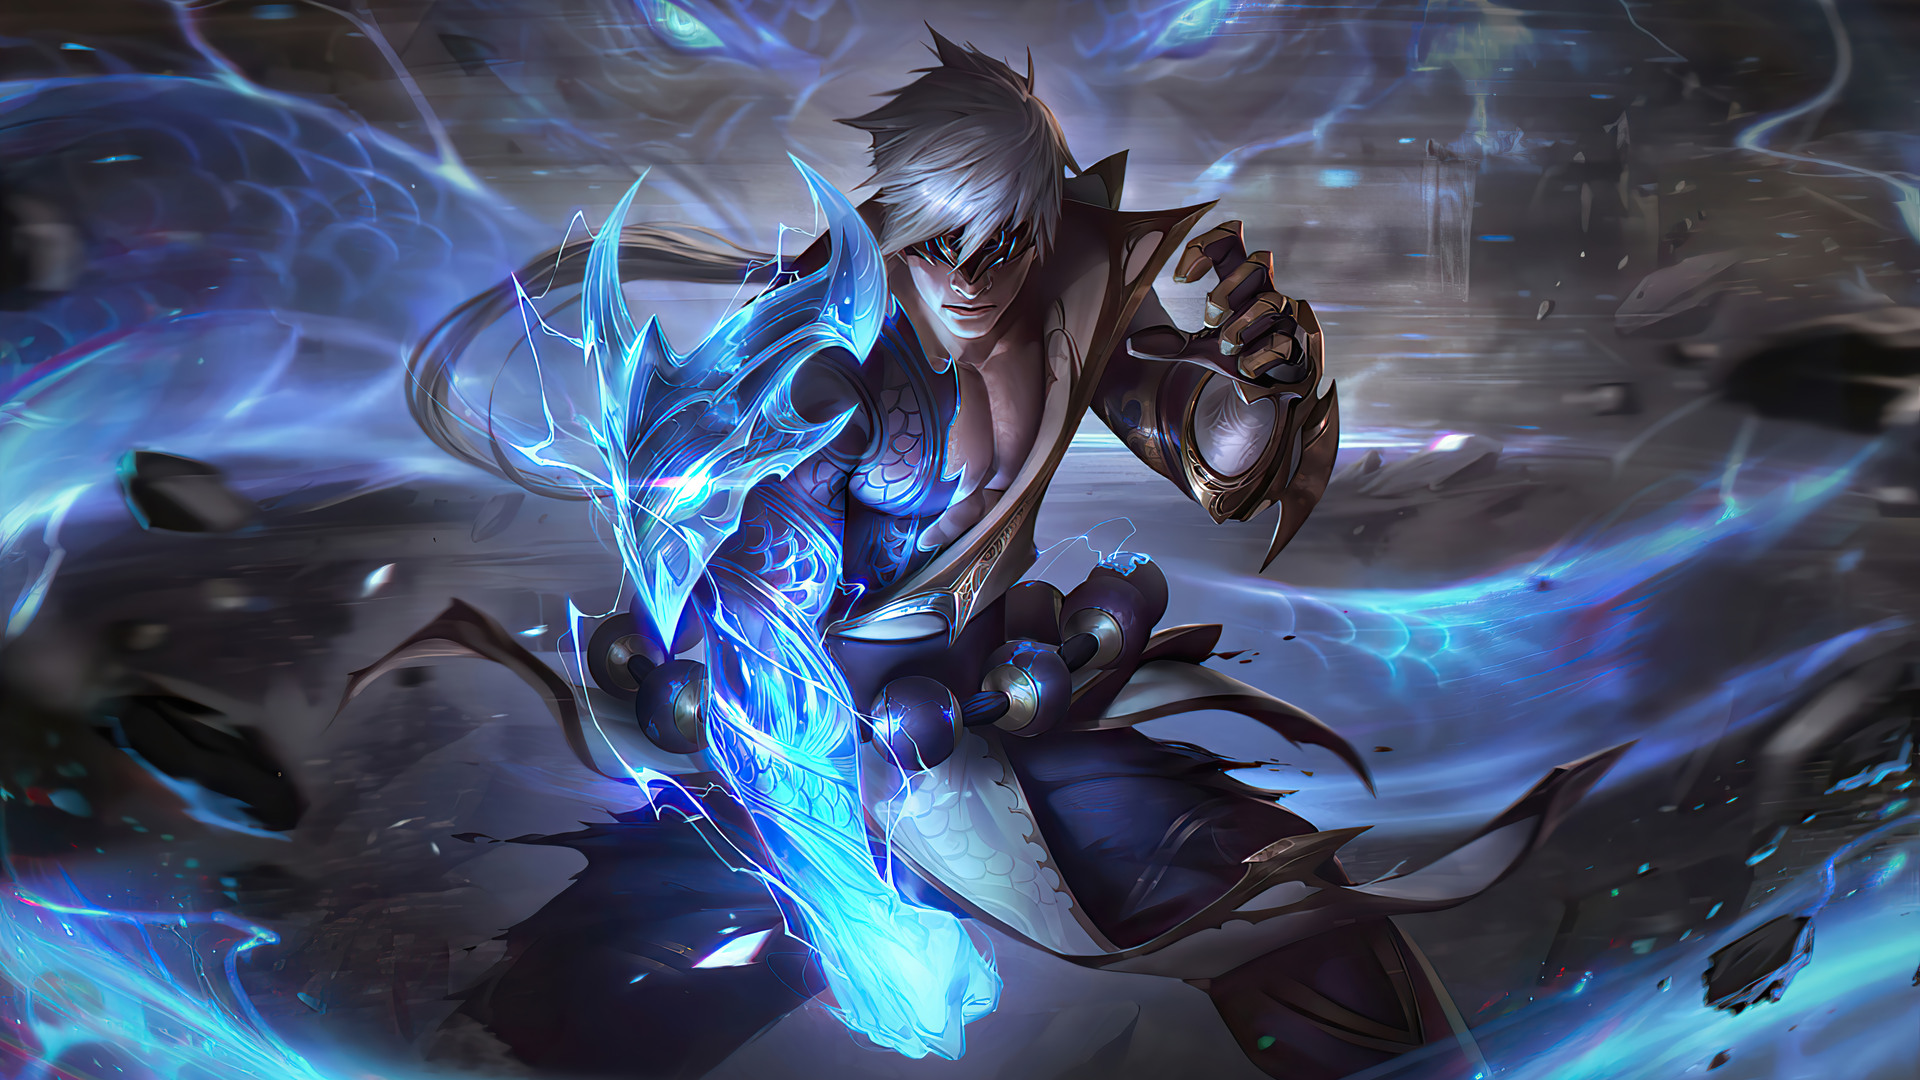
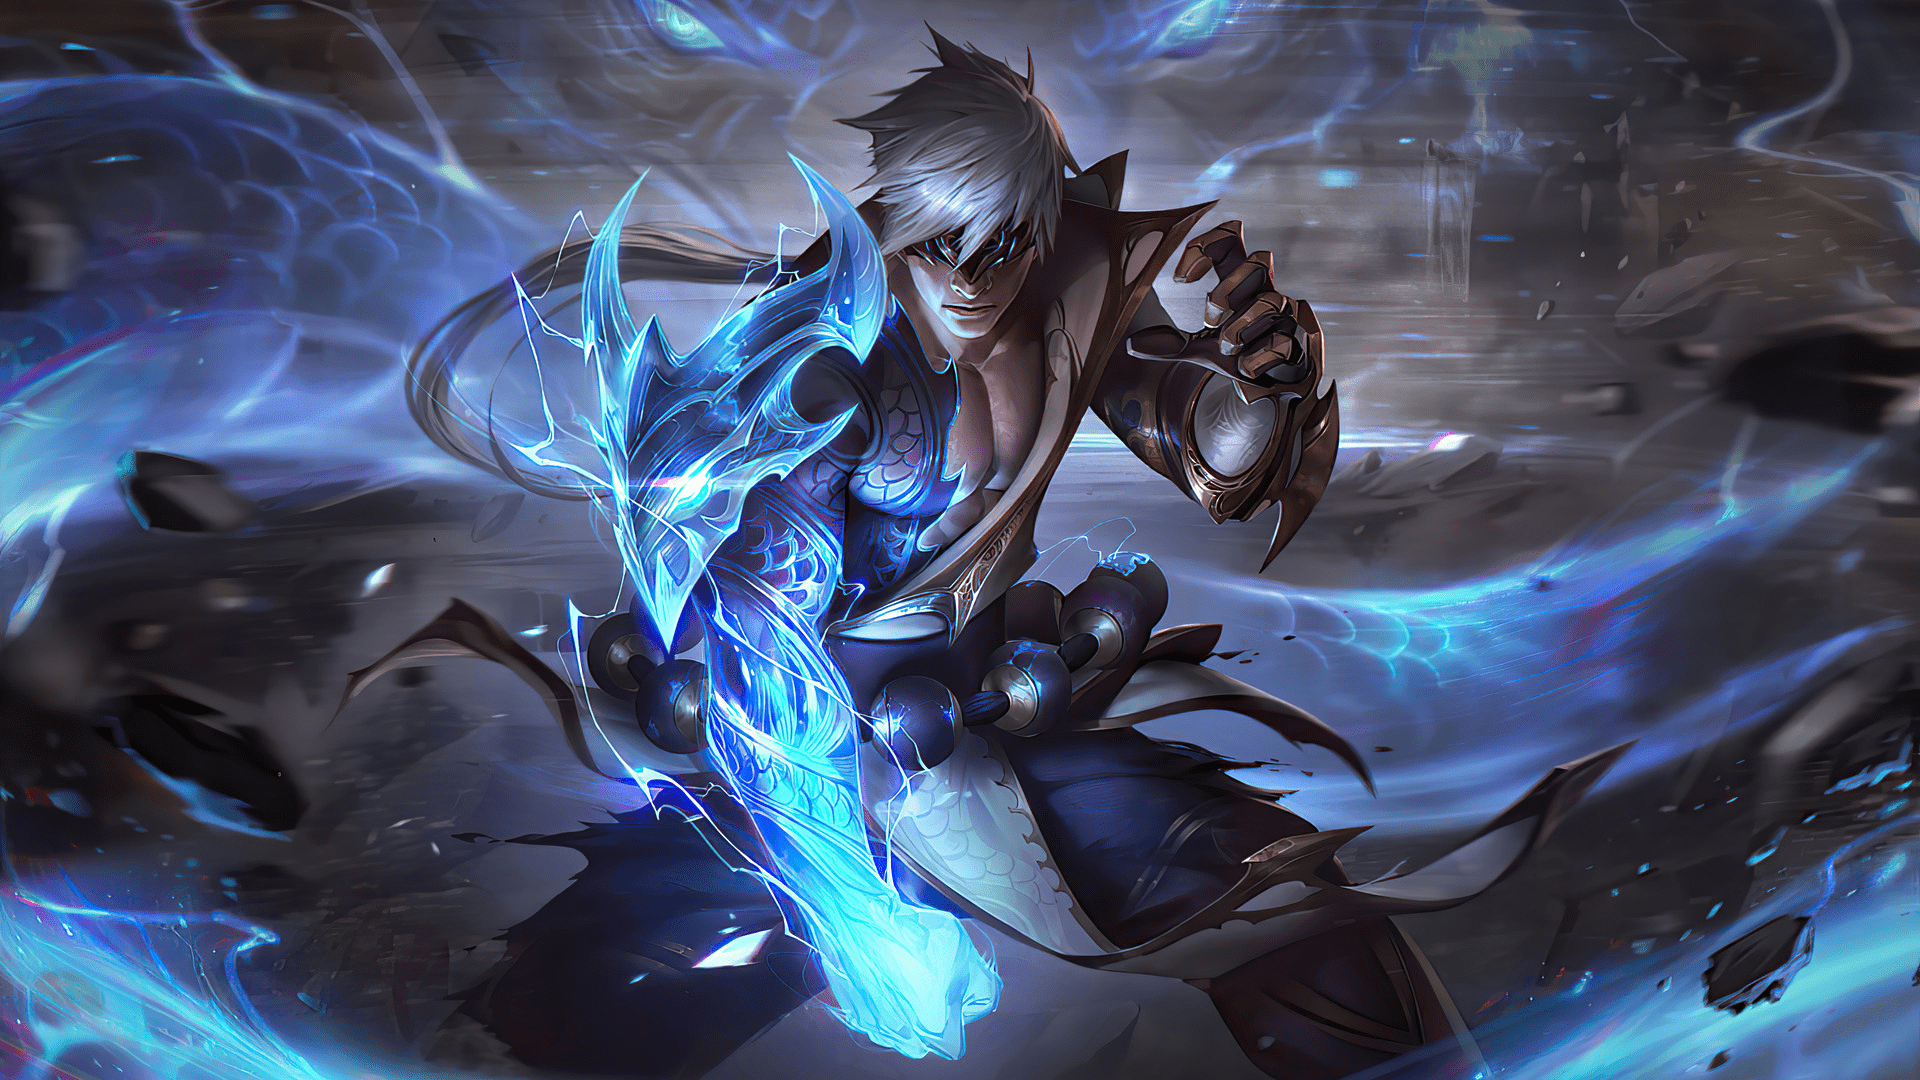
diminuido

Changed region(s): [[0.3438, 0.7333, 0.375, 0.7639], [0.1875, 0.9778, 0.2188, 1.0], [0.0, 0.825, 0.0312, 0.8556]]

diff --git a/css/responsividade.css b/css/responsividade.css
@@ -104,7 +104,7 @@
    
       }
       .section-header-elo .title h1{
-        font-size:2rem;
+        font-size:2.5rem;
       }
       .body-card, .body-card.dois,.title-body-card,.title-body-card.dois {
         display: flex;
@@ -127,7 +127,7 @@
     
       }
       .section-header-elo .title h1{
-        font-size:1.5rem;
+        font-size:2rem;
       }
    
 }

diff --git a/css/index.css b/css/index.css
@@ -455,7 +455,7 @@ text-align: end;
   margin-left: 3rem;
 }
 .section-aval{
-  background: url(../img/backgrounds/Background-aval.png);
+  background: url(../img/backgrounds/Background-aval.jpg);
  background-size: cover;
   width: 100%;
   height:auto;
